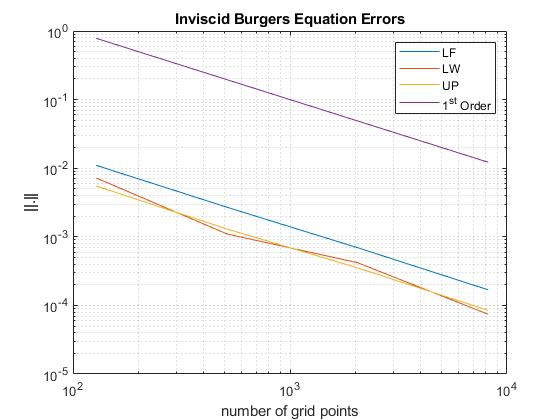
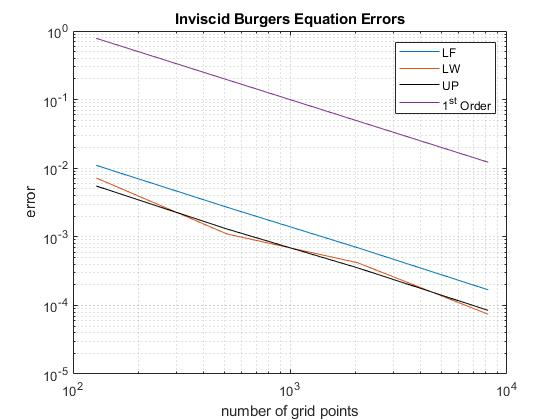
adding solution curves for IBE, and implemented RHS for VBE,not working for u(x,0) = x case on t=1

diff --git a/final_proj/fd/burger_driver.m b/final_proj/fd/burger_driver.m
@@ -2,21 +2,25 @@ close all; clc; clear all
 ax = 0;
 bx = 1;
 tfinal = 0.2;
-m = 8192;
+m = 2048;
 h = (bx-ax)/(m);
 CFL = 0.9;
 x = [0:h:1]';
 u = (1-sign(x-0.2))/2+1;
 which = 'UP';
-
-[u_sol] = burgers(x,u,h,CFL,tfinal,which);
-plot(linspace(0,0.2,length(u_sol)),u_sol)
+rhs = 0;
+[u_sol_up] = burgers(x,u,h,CFL,tfinal,'UP',rhs);
+[u_sol_lf] = burgers(x,u,h,CFL,tfinal,'LF',rhs);
+[u_sol_lw] = burgers(x,u,h,CFL,tfinal,'LW',rhs);
+plot(linspace(0,0.2,length(u_sol_up)),u_sol_up, '--')
 
 u_true = (1-sign(x-0.8))/2 + 1;
 hold on
 plot(linspace(0,0.2,length(u_true)),u_true)
-legend 'LW' 'exact solution' 
+plot(linspace(0,0.2,length(u_sol_lf)),u_sol_lf, '--')
+plot(linspace(0,0.2,length(u_sol_lw)),u_sol_lw, '--')
+legend 'Upwinding' 'Exact Solution' 'LF' 'LW' 
 xlabel 'x'
-ylabel '$u(x,t)$'
-title 't = 0.2'
+ylabel 'u(x,t)'
+title 't = 0.2, 2048 grid points'
 grid minor

diff --git a/final_proj/fd/plotter_IBE.m b/final_proj/fd/plotter_IBE.m
@@ -2,14 +2,14 @@ close all
 loglog([128 512 2048 8192],[0.0110  0.0027 6.9318e-04 1.6856e-04])
 hold on
 loglog([128 512 2048 8192],[0.0072 0.0011 4.1909e-04 7.4202e-05])
-loglog([128 512 2048 8192],[0.0055 0.0013 3.5274e-04 8.4549e-05])
+loglog([128 512 2048 8192],[0.0055 0.0013 3.5274e-04 8.4549e-05],'k')
 %loglog([1000 2000 4000 8000],[3.06470e-01 1.94113e-01 1.12615e-01 6.13476e-02])
 loglog([128 512 2048 8192],1e2*[1/128 1/512 1/2048 1/8192])
 %loglog([1000 2000 4000 8000],1e3*[1/1000^2 1/2000^2 1/4000^2 1/8000^2])
 
 legend 'LF' 'LW' 'UP' '1^{st} Order' 
 xlabel 'number of grid points'
-ylabel '||.||'
+ylabel 'error'
 title 'Inviscid Burgers Equation Errors'
 grid minor
 

diff --git a/final_proj/fd/burgers.m b/final_proj/fd/burgers.m
@@ -1,11 +1,11 @@
-function [u] = burgers(x,u,h,CFL,tfinal,which)
+function [u] = burgers(x,u,h,CFL,tfinal,which,rhs)
 t = 0; tstep = 0;
 while(t < tfinal)
     mv = max(2*abs(u)); k = CFL*h/mv;
     if (t+k>tfinal) 
         k = tfinal-t;
     end
-    u = u + k*burgers_rhs(x,u,h,mv,which);
+    u = u + k*burgers_rhs(x,u,h,mv,which) + k*rhs;
     t = t+k;
     tstep = tstep + 1;
 end

diff --git a/final_proj/fd/burgers_LF.m b/final_proj/fd/burgers_LF.m
@@ -1,6 +1,6 @@
 function [flux] = burgers_LF(u,v,maxvel)
 
 flux = (u.^2 + v.^2) / 2;
-flux = flux - maxvel*(v-u);
+flux = flux - maxvel/2*(v-u);
 
 end
